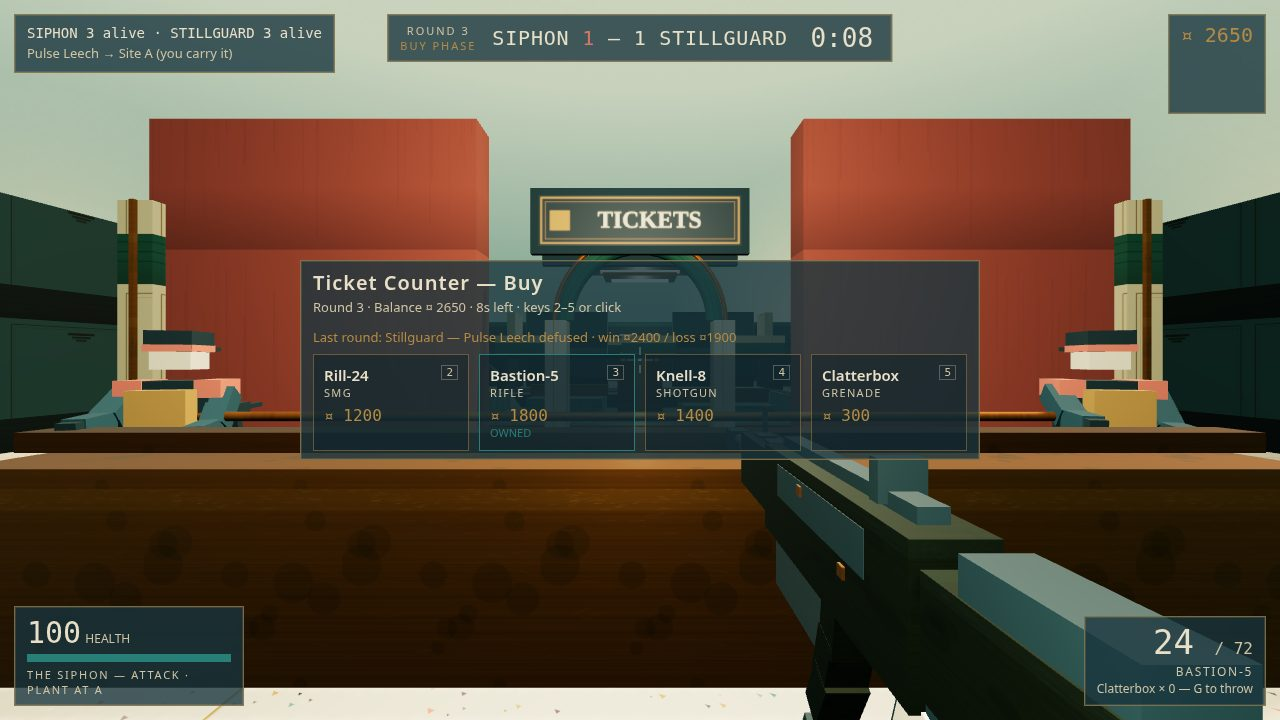
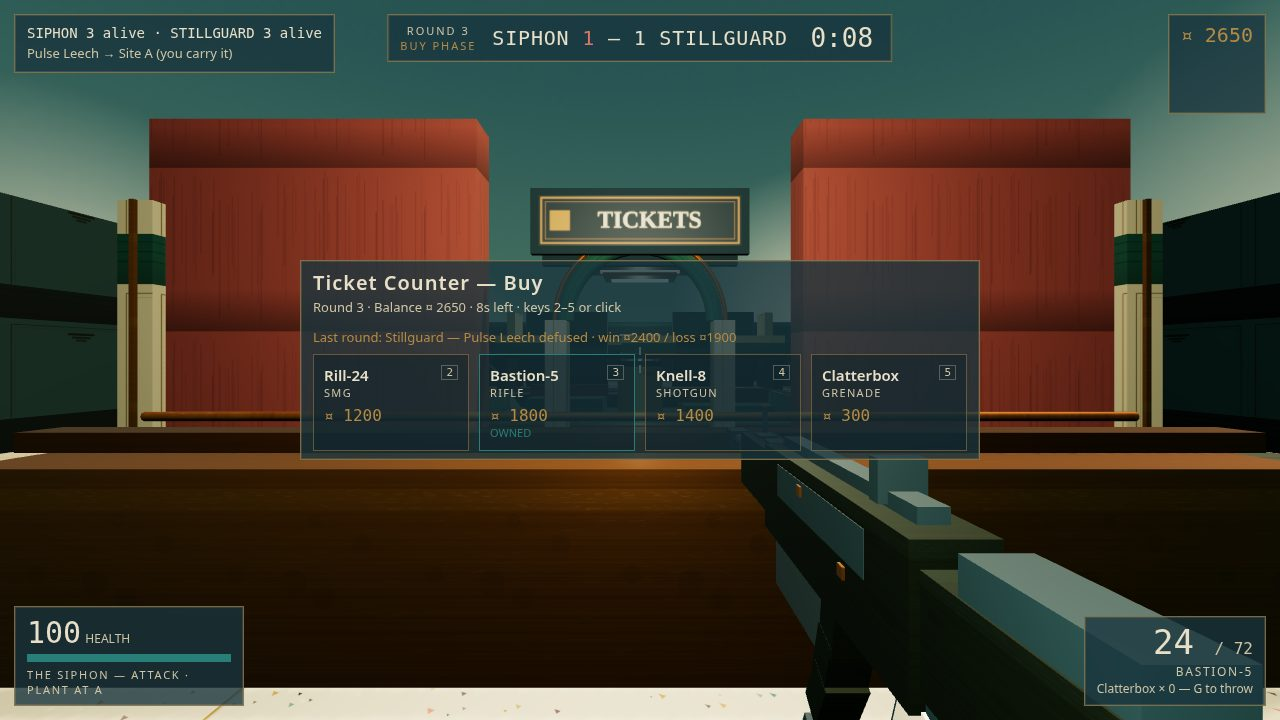
Fix round: buy-shot allies restaged out of frame, plaster structure raised (denser repeat, stronger speckle/streaks/grime), brass patina thinned so the counter reads worn not stained, sky gradient back to deep petrol-teal with opal kept at the horizon, basin fountain column re-skinned as an ivory de

diff --git a/game/src/textures.js b/game/src/textures.js
@@ -105,12 +105,12 @@ function plasterCanvas() {
   const rng = makeRng(7417);
   return cnv(1024, 1024, (x) => {
     x.fillStyle = '#f3ead9'; x.fillRect(0, 0, 1024, 1024);
-    speck(x, rng, 8000, ['rgba(110,95,60,1)', 'rgba(255,255,255,1)'], 0.06);
-    for (let i = 0; i < 24; i++) {
-      x.fillStyle = `rgba(90,80,55,${0.03 + rng() * 0.05})`;
+    speck(x, rng, 8000, ['rgba(110,95,60,1)', 'rgba(255,255,255,1)'], 0.22);
+    for (let i = 0; i < 36; i++) {
+      x.fillStyle = `rgba(90,80,55,${0.10 + rng() * 0.18})`;
       x.fillRect(rng() * 1024, rng() * 300, 2 + rng() * 4, 260 + rng() * 500);
     }
-    grime(x, 1024, 1024, 760, 0.20);
+    grime(x, 1024, 1024, 760, 0.34);
   });
 }
 
@@ -160,9 +160,9 @@ function brassCanvas() {
       const px = rng() * 512, py = rng() * 512, a = rng() * 0.6 - 0.3, l = 12 + rng() * 46;
       x.beginPath(); x.moveTo(px, py); x.lineTo(px + Math.cos(a) * l, py + Math.sin(a) * l); x.stroke();
     }
-    for (let i = 0; i < 12; i++) {
-      x.fillStyle = 'rgba(70,95,80,0.10)';
-      x.beginPath(); x.arc(rng() * 512, rng() * 512, 14 + rng() * 40, 0, 7); x.fill();
+    for (let i = 0; i < 5; i++) {
+      x.fillStyle = 'rgba(70,95,80,0.05)';
+      x.beginPath(); x.arc(rng() * 512, rng() * 512, 10 + rng() * 26, 0, 7); x.fill();
     }
     x.fillStyle = 'rgba(255,244,205,0.20)'; x.fillRect(0, 0, 512, 56);
     x.strokeStyle = 'rgba(255,250,225,0.5)';
@@ -214,8 +214,8 @@ export function gaugeTexture() {
 export function envTexture() {
   const c = cnv(1024, 512, (x) => {
     const g = x.createLinearGradient(0, 0, 0, 512);
-    g.addColorStop(0, '#fff3d2'); g.addColorStop(0.34, '#d9e4cd');
-    g.addColorStop(0.5, '#79a894'); g.addColorStop(0.58, '#2c6e66');
+    g.addColorStop(0, '#18343d'); g.addColorStop(0.34, '#2e5f5c');
+    g.addColorStop(0.5, '#55836e'); g.addColorStop(0.58, '#2c6e66');
     g.addColorStop(0.68, '#27505e'); g.addColorStop(1, '#101f26');
     x.fillStyle = g; x.fillRect(0, 0, 1024, 512);
     const rng = makeRng(1177);
@@ -238,7 +238,7 @@ export function initTextures(aniso) {
   TEX.tile = { map: tx(tileC, 0.5, 0.5), bump: tx(tileCanvas('bump'), 0.5, 0.5, false), rough: tx(tileC, 0.5, 0.5, false) };
   TEX.terrazzo = { map: tx(terrazzoCanvas(), 0.25, 0.25) };
   TEX.panel = { map: tx(panelCanvas(), 1 / 2.4, 1 / 2.4) };
-  TEX.plaster = { map: tx(plasterCanvas(), 1 / 3, 1 / 3) };
+  TEX.plaster = { map: tx(plasterCanvas(), 1 / 2, 1 / 2) };
   TEX.mosaic = { map: tx(mosaicCanvas(), 1 / 14, 1 / 14) };
   const brassC = brassCanvas();
   TEX.brass = { map: tx(brassC, 1, 1), rough: tx(brassC, 1, 1, false) };

diff --git a/game/src/map.js b/game/src/map.js
@@ -55,7 +55,7 @@ function buildBoxTable() {
   boxes.push(B(-3, -2.5, 3.3, 0.3, 0.12, 0.5, 'brass')); // island trim
   boxes.push(B(3, 0.5, 3.3, 0.3, 0.12, 0.5, 'brass'));
   // Central fountain column in the basin: breaks the spawn-to-spawn sightline.
-  boxes.push(B(0, -1, 1.7, 1.7, -1, 2.6, 'brassDark'));
+  boxes.push(B(0, -1, 1.7, 1.7, -1, 2.6, 'ivoryDim'));
   // Deck cover crates either side of the basin
   boxes.push(B(-9.2, 3.5, 1.6, 1.6, 0, 1.2, 'plum'));
   boxes.push(B(9.2, -4.5, 1.6, 1.6, 0, 1.2, 'plum'));

diff --git a/game/src/main.js b/game/src/main.js
@@ -452,8 +452,8 @@ function stageShot(n) {
     player.money = 2650;
     givePrimary(player, 'bastion5', 1);
     place(player, 0, 18.2, 0);
-    place(allies[0], -3.4, 14.6, 0.3);
-    place(allies[1], 3.4, 14.6, -0.3);
+    place(allies[0], -3.4, 19.4, 0.3);
+    place(allies[1], 3.4, 19.4, -0.3);
     place(enemies[0], -3, -17.5, Math.PI);
     place(enemies[1], 0, -18.5, Math.PI);
     place(enemies[2], 3, -17.5, Math.PI);
